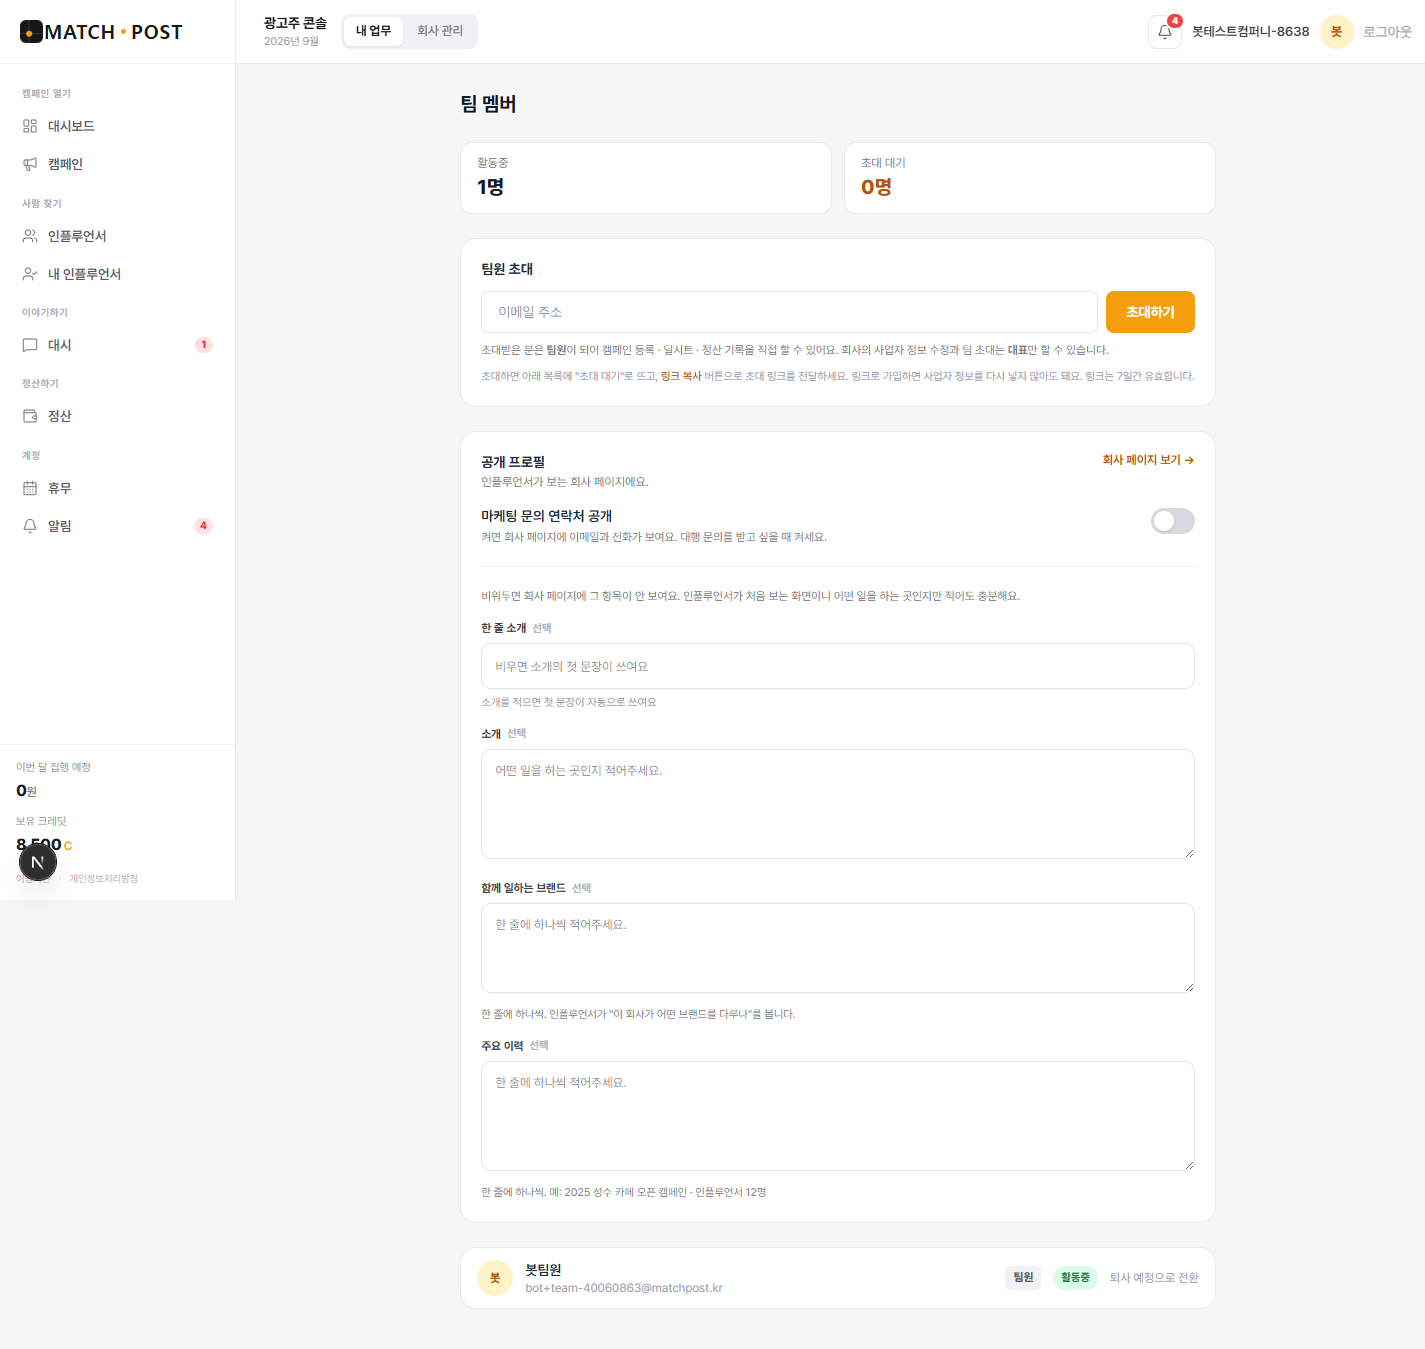
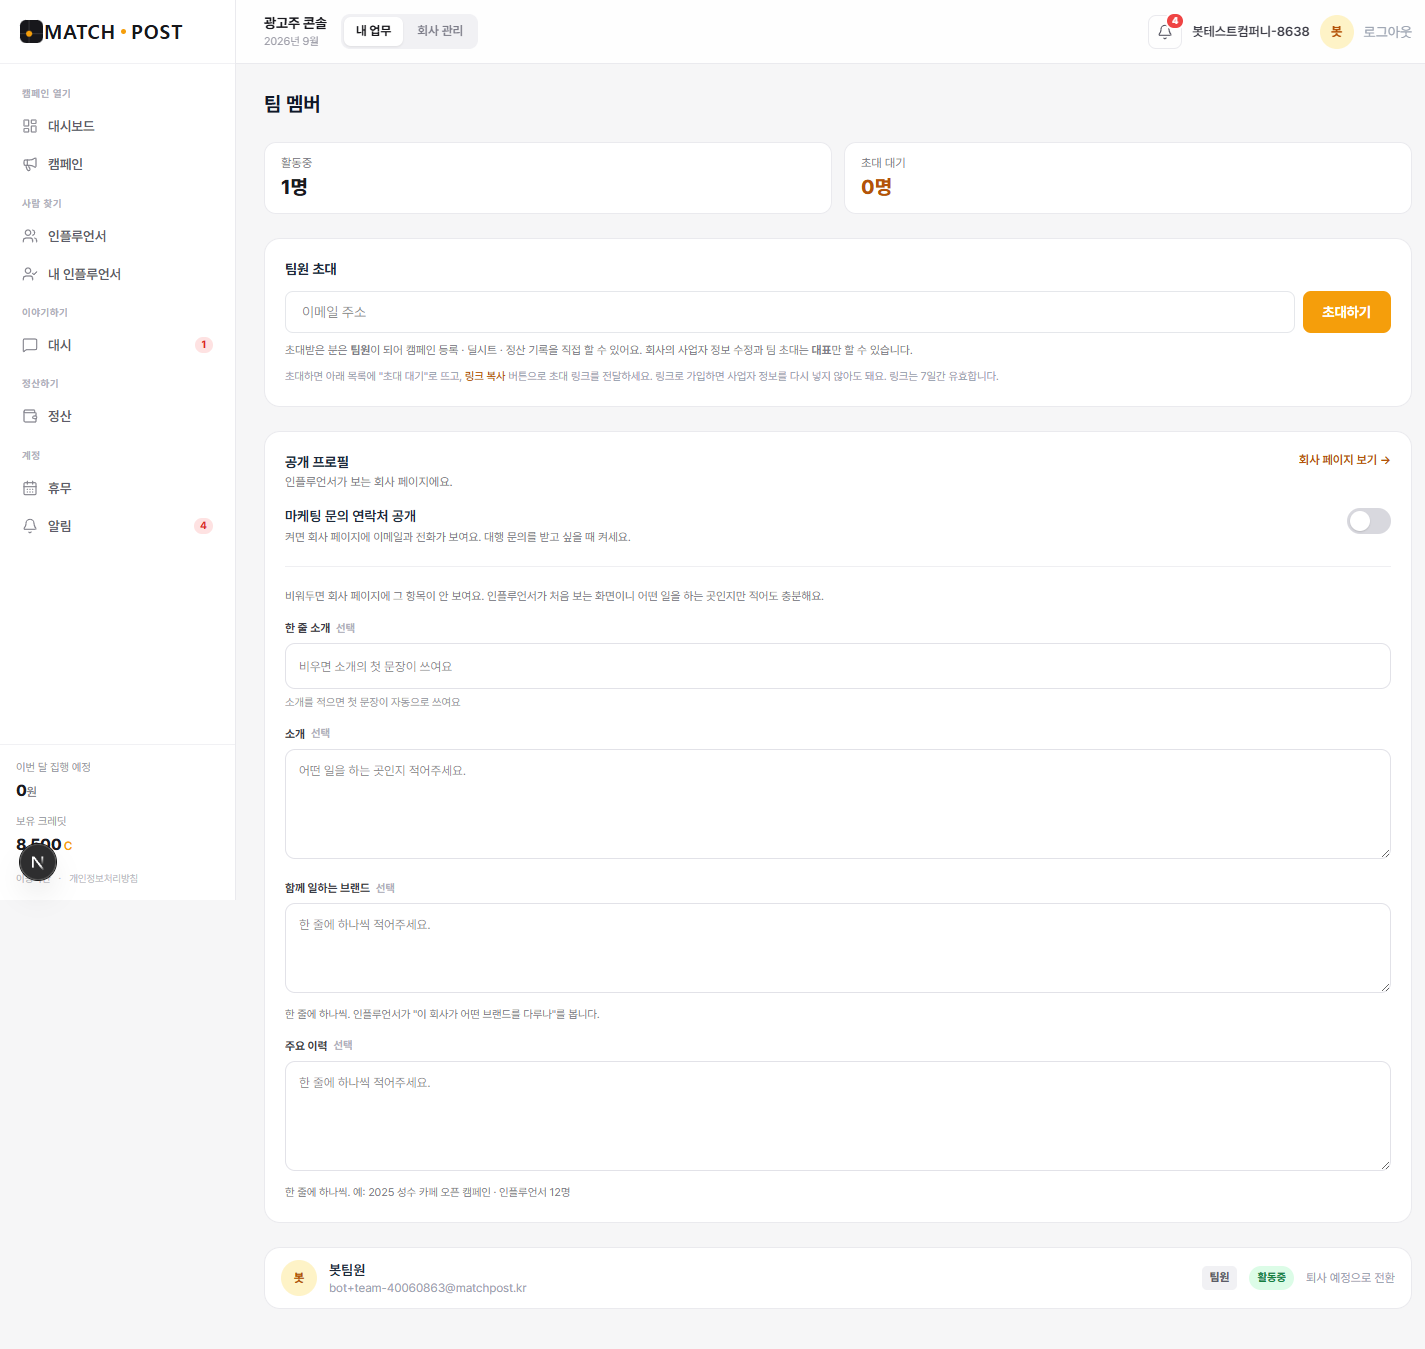
fix(pc): PC 해제에 빠진 mx-0 을 20곳 전부 채우고, 스윕이 잡게 한다
셸의 <main> 은 PC 에서 flex flex-col 이라, 화면 래퍼에 mx-auto 가 남아 있으면
auto 가로여백이 align-items: stretch 를 무력화한다. 그러면 래퍼가 내용 폭으로
쪼그라들어 「가운데 좁은 기둥」이 된다. max-w-none · mx-0 · px-0 은 한 벌이다.

- 16개 파일 19줄에 mx-0 추가 (max-w-none 바로 뒤, 마커별로)
- 겉보기 멀쩡하던 곳도 전부 포함 — 내용이 짧아지는 순간(빈 상태·필터 0건)
  똑같이 쪼그라드는 잠복 버그였다. 첫 가입자가 가장 먼저 걸린다
- 스윕에 「쪼그라듦」 검사 추가 (29-width-shots): PC 에서 첫칸폭이
  본문 안쪽 폭보다 좁으면 실패. 다음에 mx-0 을 빼먹으면 봇이 잡는다
- 본문안쪽(= 본문폭 - 좌우 패딩) 지표 추가. 본문폭과 그냥 견주면
  정상 화면도 px-7(56px)만큼 늘 좁게 나와 전부 오탐이 된다
- MEASURED.md 에 첫칸폭 정의를 적었다 — 좁은 게 버그다.
  이 값으로 「PC 구성이 있는지」는 판단할 수 없다(D33 에서 두 번 틀린 해석)

검증: build 성공 · PC 45개 화면 갇힘 0 · 쪼그라듦 0 · 가로스크롤 0 (모바일 동일)
고치기 전 값: adv-day 236 · inf-schedule-list 234 · adv-proposal-new 275 ...
→ 전부 1148 (본문 안쪽 폭)

diff --git a/tests/e2e/29-width-shots.spec.ts b/tests/e2e/29-width-shots.spec.ts
@@ -96,6 +96,7 @@ type Row = {
   주소: string
   도착: string
   본문폭: number
+  본문안쪽: number
   콘텐츠폭: number
   첫칸폭: number
   창폭: number
@@ -133,8 +134,17 @@ async function capture(page: Page, s: Screen, dir: string) {
       if (capped) inner = capped
     }
 
+    // 첫칸이 본문을 다 쓰는지 보려면 본문의 「안쪽 폭」(패딩 뺀 값)과 견줘야 한다.
+    // 본문폭과 그냥 비교하면 정상인 화면도 좌우 패딩(px-7=56px)만큼 늘 좁게 나온다.
+    const inset = (el: Element | null) => {
+      if (!el) return -1
+      const cs = getComputedStyle(el)
+      return Math.round(el.getBoundingClientRect().width - parseFloat(cs.paddingLeft) - parseFloat(cs.paddingRight))
+    }
+
     return {
       본문폭: w(box),
+      본문안쪽: inset(box),
       콘텐츠폭: w(inner),
       첫칸폭: w(box?.firstElementChild),
       창폭: window.innerWidth,
@@ -292,9 +302,21 @@ test('[D33] 전 화면 두 폭 캡처', async ({ browser }, info) => {
   const 결함넘침 = 넘침
     .filter((r) => !r.화면.startsWith('admin-') && !PC_ONLY.includes(r.화면))
     .map((r) => `${r.화면} [${r.범인[0] ?? '?'}]`)
-  console.log(`\n[D33] ${rows.length}개 화면 · 512 갇힘 ${갇힘.length} · 가로스크롤 ${결함넘침.length}`)
+  // 첫칸이 본문 안쪽보다 좁으면 래퍼가 쪼그라든 것이다 — PC 해제에 mx-0 이 빠졌을 때 나온다.
+  // 셸의 <main> 은 PC 에서 flex flex-col 이라, 래퍼에 mx-auto 가 남아 있으면
+  // auto 가로여백이 align-items: stretch 를 무력화해 내용 폭으로 줄어든다.
+  // 증상이 「갇힘」이 아니라 「가운데 좁은 기둥」이라 512 검사로는 안 잡혔다(D33).
+  // 셸이 있는 화면(adv-·inf-)만 본다 — 마커 셸 밖에는 이 함정이 없다.
+  const 쪼그라듦 = rows
+    .filter((r) => pc && /^(adv|inf)-/.test(r.화면) && r.본문안쪽 > 0 && r.첫칸폭 > 0 && r.첫칸폭 < r.본문안쪽 - 1)
+    .map((r) => `${r.화면}(본문 안쪽 ${r.본문안쪽}px 인데 첫칸 ${r.첫칸폭}px)`)
+  console.log(`\n[D33] ${rows.length}개 화면 · 512 갇힘 ${갇힘.length} · 쪼그라듦 ${쪼그라듦.length} · 가로스크롤 ${결함넘침.length}`)
   if (알려진.length) console.log(`[D33] PC 전용이라 셈에서 뺀 것 ${알려진.length}개: ${알려진.join(', ')}`)
   console.log('')
   expect(갇힘, `PC 폭인데 본문이 512px 에 갇힘: ${갇힘.join(', ')}`).toEqual([])
+  expect(
+    쪼그라듦,
+    `PC 해제에 mx-0 이 빠져 래퍼가 쪼그라듦(max-w-none · mx-0 · px-0 이 한 벌이다): ${쪼그라듦.join(', ')}`,
+  ).toEqual([])
   expect(결함넘침, `모바일 폭에서 가로 스크롤: ${결함넘침.join(', ')}`).toEqual([])
 })

diff --git a/docs/design/d33/mk-measured.js b/docs/design/d33/mk-measured.js
@@ -1,0 +1,30 @@
+const fs = require('node:fs')
+const pc = require('c:/Users/user/matchpost/docs/design/d33/screens/measure-pc.json')
+const mo = require('c:/Users/user/matchpost/docs/design/d33/screens/measure-mobile.json')
+const M = Object.fromEntries(mo.rows.map((r) => [r.화면, r]))
+const px = (n) => (n > 0 ? n + 'px' : '—')
+
+let s = ''
+s += '# D33 — 두 폭 실측\n\n'
+s += '셸 판정을 user-agent 에서 화면 폭(lg = 1024px)으로 바꾼 뒤 잰 값입니다.\n'
+s += '캡처는 `screens/pc/` · `screens/mobile/` 에 같은 이름으로 있습니다(각 45장).\n\n'
+s += '- **본문** — `main` 폭. 그게 없는 화면은 body 아래에서 폭을 가진 첫 칸\n'
+s += '- **내용** — `main` 이 없는 화면에서 스스로 폭을 제한한 가장 바깥 칸. 바깥 래퍼만 보면 갇힌 화면이 안 갇힌 것처럼 보인다\n'
+s += '- **첫칸** — `main` 의 첫 자식(대개 화면 최상위 래퍼) 폭\n'
+s += '  - 본문 안쪽 폭(좌우 패딩 뺀 값)과 **같으면 정상**\n'
+s += '  - 그보다 **좁으면 버그** — `mx-auto` 가 flex 안에서 쪼그라든 것이다. PC 해제에 `mx-0` 이 빠졌다\n'
+s += '  - ⚠ 이 값으로 「PC 구성이 있는지」는 판단할 수 없다. 그건 캡처를 보고\n'
+s += '    「가로로 긴 줄이 세로로 쌓였는지」로 판단한다 (D33 에서 이 해석을 두 번 틀렸다)\n\n'
+s += '추측이 아니라 `getBoundingClientRect()` 값입니다.\n\n'
+s += '| 화면 | 주소 | PC 본문 | PC 내용 | PC 첫칸 | PC 사이드바 | 모바일 본문 | 모바일 첫칸 | 모바일 하단탭 | 모바일 가로스크롤 |\n'
+s += '| --- | --- | ---: | ---: | ---: | ---: | ---: | ---: | ---: | --- |\n'
+for (const r of pc.rows) {
+  const m = M[r.화면] || {}
+  const addr = r.주소 + (r.도착 && r.도착 !== r.주소 ? ' ↪ ' + r.도착 : '')
+  const of = m.가로스크롤 ? '⚠ ' + (m.범인 && m.범인[0] ? m.범인[0] : '') : ''
+  s += `| ${r.화면} | ${addr} | ${px(r.본문폭)} | ${px(r.콘텐츠폭)} | ${px(r.첫칸폭)} | ${px(r.사이드바)} | ${px(m.본문폭)} | ${px(m.첫칸폭)} | ${px(m.하단탭)} | ${of} |\n`
+}
+s += '\n## 못 본 화면\n\n데이터가 없어 열지 못했습니다. 「다 봤다」가 거짓이 되지 않게 적어 둡니다.\n\n'
+for (const k of pc.skipped || []) s += '- ' + k + '\n'
+fs.writeFileSync('c:/Users/user/matchpost/docs/design/d33/MEASURED.md', s, 'utf8')
+console.log('wrote', s.split('\n').length, 'lines /', pc.rows.length, 'rows')

diff --git a/src/app/(dashboard)/advertiser/campaigns/new/page.tsx b/src/app/(dashboard)/advertiser/campaigns/new/page.tsx
@@ -579,7 +579,7 @@ export default function NewCampaignPage() {
 
   if (success) {
     return (
-      <div className="max-w-lg mx-auto px-4 py-16 text-center lg:[.adv-pc_&]:max-w-none">
+      <div className="max-w-lg mx-auto px-4 py-16 text-center lg:[.adv-pc_&]:max-w-none lg:[.adv-pc_&]:mx-0">
         <PartyPopper size={40} strokeWidth={1.5} className="mx-auto mb-4 text-[#F59E0B]" />
         <h2 className="text-xl font-bold text-gray-800">캠페인이 등록됐어요!</h2>
         <p className="text-gray-500 text-sm mt-2">인플루언서들에게 노출되기 시작했어요.</p>
@@ -596,7 +596,7 @@ export default function NewCampaignPage() {
     'w-full border border-gray-200 rounded-lg px-4 py-2.5 text-sm focus:outline-none focus:ring-2 focus:ring-amber-500'
 
   return (
-    <div className="max-w-lg mx-auto px-4 py-8 lg:[.adv-pc_&]:max-w-none lg:[.adv-pc_&]:px-0">
+    <div className="max-w-lg mx-auto px-4 py-8 lg:[.adv-pc_&]:max-w-none lg:[.adv-pc_&]:mx-0 lg:[.adv-pc_&]:px-0">
       <div className="flex items-center mb-8">
         <button onClick={() => router.back()} className="mr-4 text-gray-400 hover:text-gray-600">
           ← 뒤로

diff --git a/src/app/(dashboard)/advertiser/proposals/new/page.tsx b/src/app/(dashboard)/advertiser/proposals/new/page.tsx
@@ -90,7 +90,7 @@ function NewProposalForm() {
 
   if (success) {
     return (
-      <div className="max-w-lg mx-auto px-4 py-16 text-center lg:[.adv-pc_&]:max-w-none">
+      <div className="max-w-lg mx-auto px-4 py-16 text-center lg:[.adv-pc_&]:max-w-none lg:[.adv-pc_&]:mx-0">
         <Send size={32} strokeWidth={1.5} className="text-[#C4C4CE] mx-auto mb-4" />
         <h2 className="text-xl font-bold text-gray-800">제안을 보냈어요!</h2>
         <p className="text-gray-500 text-sm mt-2">인플루언서의 답변을 기다려주세요.</p>
@@ -99,7 +99,7 @@ function NewProposalForm() {
   }
 
   return (
-    <div className="max-w-lg mx-auto px-4 py-8 lg:[.adv-pc_&]:max-w-none lg:[.adv-pc_&]:px-0 lg:[.adv-pc_&]:py-0">
+    <div className="max-w-lg mx-auto px-4 py-8 lg:[.adv-pc_&]:max-w-none lg:[.adv-pc_&]:mx-0 lg:[.adv-pc_&]:px-0 lg:[.adv-pc_&]:py-0">
       {/* 헤더 */}
       <div className="flex items-center mb-8">
         <button onClick={() => router.back()} className="mr-4 text-gray-400 hover:text-gray-600">

diff --git a/src/app/(dashboard)/influencer/schedule/page.tsx b/src/app/(dashboard)/influencer/schedule/page.tsx
@@ -157,7 +157,7 @@ function ScheduleForm() {
 
   if (success) {
     return (
-      <div className="max-w-lg mx-auto px-4 py-16 text-center lg:[.inf-pc_&]:max-w-none">
+      <div className="max-w-lg mx-auto px-4 py-16 text-center lg:[.inf-pc_&]:max-w-none lg:[.inf-pc_&]:mx-0">
         <h2 className="text-xl font-bold text-gray-800">일정이 등록됐어요!</h2>
         <p className="text-gray-500 text-sm mt-2">광고주들에게 노출되기 시작했어요.</p>
       </div>
@@ -165,7 +165,7 @@ function ScheduleForm() {
   }
 
   return (
-    <div className="max-w-lg mx-auto px-4 py-8 lg:[.inf-pc_&]:max-w-none lg:[.inf-pc_&]:px-0 lg:[.inf-pc_&]:py-0">
+    <div className="max-w-lg mx-auto px-4 py-8 lg:[.inf-pc_&]:max-w-none lg:[.inf-pc_&]:mx-0 lg:[.inf-pc_&]:px-0 lg:[.inf-pc_&]:py-0">
       {/* 헤더 */}
       <div className="flex items-center mb-8">
         {/* D31 4절 — 모바일 뒤로가기는 셸 상단바가 갖는다(여기 두면 두 개가 된다).

diff --git a/src/app/(dashboard)/influencer/channel-analytics/page.tsx b/src/app/(dashboard)/influencer/channel-analytics/page.tsx
@@ -52,7 +52,7 @@ export default async function ChannelAnalyticsPage() {
     // 셸이 두 폭 다 상단바를 준다(모바일·PC 각각) — 화면이 자기 헤더를 들면 이중 헤더가 된다.
     // 화면 이름은 셸의 이름 표에 있다(InfluencerShell — '내 채널 분석'). D33
     <div className="min-h-screen bg-gray-50">
-      <main className="max-w-lg mx-auto px-4 py-5 space-y-4 lg:[.inf-pc_&]:max-w-none lg:[.inf-pc_&]:px-0 lg:[.inf-pc_&]:py-0">
+      <main className="max-w-lg mx-auto px-4 py-5 space-y-4 lg:[.inf-pc_&]:max-w-none lg:[.inf-pc_&]:mx-0 lg:[.inf-pc_&]:px-0 lg:[.inf-pc_&]:py-0">
         {/* 뒤로가기 */}
         <Link href="/influencer/dashboard" className="hidden lg:[.inf-pc_&]:inline-flex items-center gap-1 text-sm text-gray-500 hover:text-gray-800 transition">
           ← 대시보드

diff --git a/src/app/(dashboard)/influencer/search/page.tsx b/src/app/(dashboard)/influencer/search/page.tsx
@@ -116,7 +116,7 @@ export default function InfluencerSearchPage() {
     'w-full border border-gray-200 rounded-lg px-4 py-2.5 text-sm focus:outline-none focus:ring-2 focus:ring-amber-500'
 
   return (
-    <div className="max-w-lg mx-auto px-4 py-8 lg:[.inf-pc_&]:max-w-none lg:[.inf-pc_&]:px-0 lg:[.inf-pc_&]:py-0">
+    <div className="max-w-lg mx-auto px-4 py-8 lg:[.inf-pc_&]:max-w-none lg:[.inf-pc_&]:mx-0 lg:[.inf-pc_&]:px-0 lg:[.inf-pc_&]:py-0">
       {/* 헤더 */}
       <div className="flex items-center mb-8">
         <Link href="/influencer/dashboard" className="hidden lg:[.inf-pc_&]:inline-block mr-4 text-gray-400 hover:text-gray-600">

diff --git a/src/app/(dashboard)/advertiser/team/page.tsx b/src/app/(dashboard)/advertiser/team/page.tsx
@@ -285,7 +285,7 @@ export default function TeamPage() {
   const kpiActive = members.filter((m) => m.status === 'active').length
 
   return (
-    <div className="max-w-2xl mx-auto px-4 py-8 lg:[.adv-pc_&]:max-w-none lg:[.adv-pc_&]:px-0 lg:[.adv-pc_&]:py-0">
+    <div className="max-w-2xl mx-auto px-4 py-8 lg:[.adv-pc_&]:max-w-none lg:[.adv-pc_&]:mx-0 lg:[.adv-pc_&]:px-0 lg:[.adv-pc_&]:py-0">
       <div className="flex items-center mb-6">
         <Link href="/advertiser/dashboard" className="mr-4 text-gray-400 hover:text-gray-600 lg:[.adv-pc_&]:hidden">← 뒤로</Link>
         <h1 className="text-xl font-bold text-gray-900">팀 멤버</h1>

diff --git a/src/app/(dashboard)/influencer/notifications/page.tsx b/src/app/(dashboard)/influencer/notifications/page.tsx
@@ -84,7 +84,7 @@ export default function NotificationsPage() {
   const unread = items.filter((n) => !n.is_read).length
 
   return (
-    <div className="max-w-lg mx-auto px-4 py-8 lg:[.inf-pc_&]:max-w-none lg:[.inf-pc_&]:px-0 lg:[.inf-pc_&]:py-0">
+    <div className="max-w-lg mx-auto px-4 py-8 lg:[.inf-pc_&]:max-w-none lg:[.inf-pc_&]:mx-0 lg:[.inf-pc_&]:px-0 lg:[.inf-pc_&]:py-0">
       <div className="flex items-center justify-between mb-6">
         <div className="flex items-center">
           <Link href="/influencer/dashboard" className="hidden lg:[.inf-pc_&]:inline-block mr-4 text-gray-400 hover:text-gray-600">

diff --git a/src/app/(dashboard)/advertiser/notifications/page.tsx b/src/app/(dashboard)/advertiser/notifications/page.tsx
@@ -80,7 +80,7 @@ export default function AdvertiserNotificationsPage() {
   const unread = items.filter((n) => !n.is_read).length
 
   return (
-    <div className="max-w-lg mx-auto px-4 py-8 lg:[.adv-pc_&]:max-w-none lg:[.adv-pc_&]:px-0 lg:[.adv-pc_&]:py-0">
+    <div className="max-w-lg mx-auto px-4 py-8 lg:[.adv-pc_&]:max-w-none lg:[.adv-pc_&]:mx-0 lg:[.adv-pc_&]:px-0 lg:[.adv-pc_&]:py-0">
       <div className="flex items-center justify-between mb-6">
         <div className="flex items-center">
           <Link href="/advertiser/dashboard" className="mr-4 text-gray-400 hover:text-gray-600">← 뒤로</Link>

diff --git a/src/app/(dashboard)/advertiser/connections/page.tsx b/src/app/(dashboard)/advertiser/connections/page.tsx
@@ -131,7 +131,7 @@ export default function AdvertiserConnectionsPage() {
   }
 
   return (
-    <div className="max-w-lg mx-auto px-4 py-8 lg:[.adv-pc_&]:max-w-none lg:[.adv-pc_&]:px-0 lg:[.adv-pc_&]:py-0">
+    <div className="max-w-lg mx-auto px-4 py-8 lg:[.adv-pc_&]:max-w-none lg:[.adv-pc_&]:mx-0 lg:[.adv-pc_&]:px-0 lg:[.adv-pc_&]:py-0">
       <div className="flex items-center mb-8">
         <Link href="/advertiser/dashboard" className="mr-4 text-gray-400 hover:text-gray-600 lg:[.adv-pc_&]:hidden">← 뒤로</Link>
         <h1 className="text-xl font-bold text-gray-900">내 인플루언서</h1>

diff --git a/src/app/(dashboard)/influencer/search/loading.tsx b/src/app/(dashboard)/influencer/search/loading.tsx
@@ -3,7 +3,7 @@ import { SkelBar, SkelCard } from '@/components/Skeleton'
 // D31 2절 — 캠페인 찾기
 export default function Loading() {
   return (
-    <div className="max-w-lg mx-auto px-4 py-8 lg:[.inf-pc_&]:max-w-none lg:[.inf-pc_&]:px-0 lg:[.inf-pc_&]:py-0">
+    <div className="max-w-lg mx-auto px-4 py-8 lg:[.inf-pc_&]:max-w-none lg:[.inf-pc_&]:mx-0 lg:[.inf-pc_&]:px-0 lg:[.inf-pc_&]:py-0">
       <SkelBar w={112} h={19} className="mb-8" />
       <div className="bg-white rounded-2xl shadow-sm p-4 space-y-3 mb-4">
         <SkelBar w="100%" h={38} />
